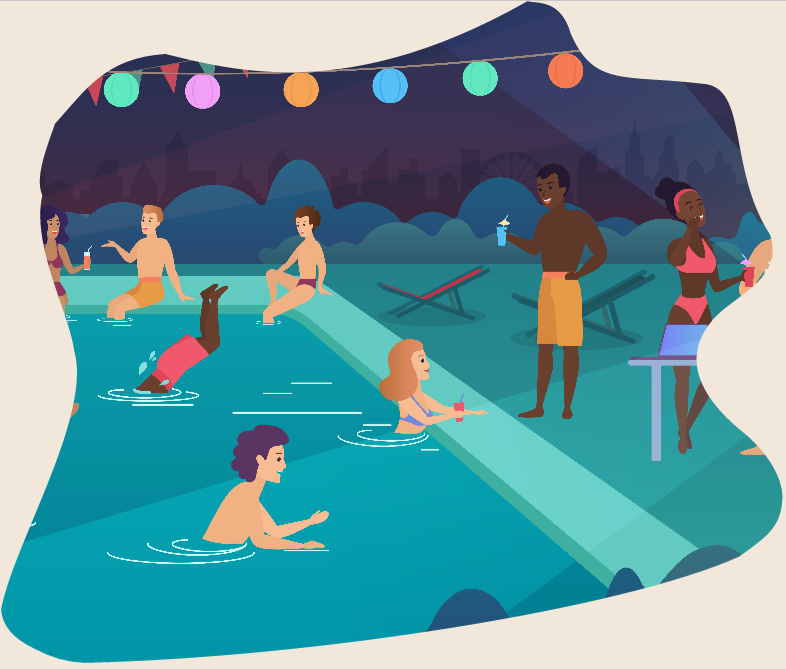
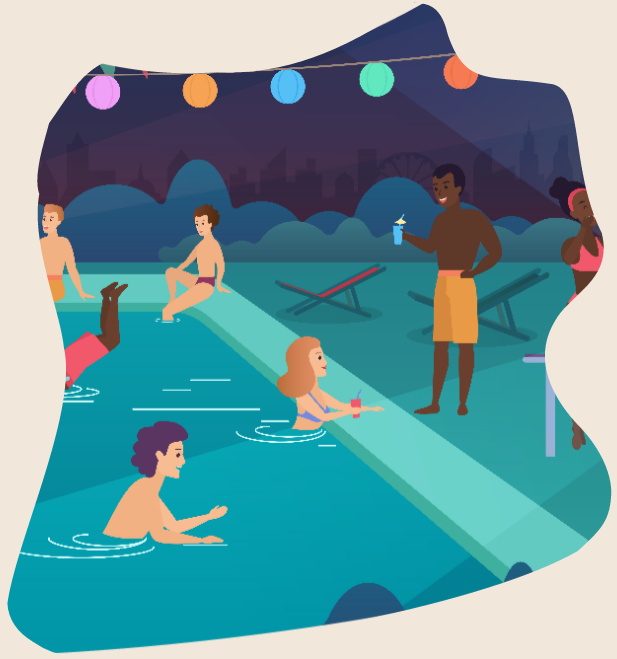
welcome image quality corrections

diff --git a/lib/module/welcome/index.dart b/lib/module/welcome/index.dart
@@ -24,6 +24,8 @@ class WelcomePageState extends State<WelcomePage>
 
   @override
   Widget build(BuildContext context) {
+    NavigatorState navigator = Navigator.of(context);
+
     return SafeArea(
       child: Scaffold(
         body: Screener(
@@ -31,14 +33,17 @@ class WelcomePageState extends State<WelcomePage>
             const SizedBox(height: 30.0),
             SizedBox(
               width: double.maxFinite,
-              height: 340.0,
+              height: 380.0,
               child: TabBarView(controller: tabController, children: [
                 Column(
                   children: [
                     Padding(
                       padding: const EdgeInsets.all(12.0),
-                      child: Image.asset(
-                        'assets/house2.png',
+                      child: SizedBox(
+                        width: 280.0,
+                        child: Image.asset(
+                          'assets/house2.png',
+                        ),
                       ),
                     ),
                     const Text(
@@ -54,7 +59,9 @@ class WelcomePageState extends State<WelcomePage>
                   children: [
                     Padding(
                       padding: const EdgeInsets.all(12.0),
-                      child: Image.asset('assets/barbecue2.png'),
+                      child: SizedBox(
+                          width: 280.0,
+                          child: Image.asset('assets/barbecue2.png')),
                     ),
                     const Text(
                       'Conheça pessoas de qualidade',
@@ -82,7 +89,10 @@ class WelcomePageState extends State<WelcomePage>
                 Column(children: [
                   Padding(
                     padding: const EdgeInsets.all(12.0),
-                    child: Image.asset('assets/pool2.png'),
+                    child: SizedBox(
+                      width: 280,
+                      child: Image.asset('assets/pool2.png'),
+                    ),
                   ),
                   const Text(
                     'Faça seus próprios eventos',
@@ -117,13 +127,19 @@ class WelcomePageState extends State<WelcomePage>
             const SizedBox(height: 45.0),
             Padding(
               padding: const EdgeInsets.all(12.0),
-              child:
-                  MainPinkButton(onPressed: () async {}, text: 'Fazer Login'),
+              child: MainPinkButton(
+                  onPressed: () async {
+                    navigator.pushNamed('/login');
+                  },
+                  text: 'Fazer Login'),
             ),
             Padding(
               padding: const EdgeInsets.all(12.0),
               child: MainPinkButton(
-                  onPressed: () async {}, text: 'Visitar Evento'),
+                  onPressed: () async {
+                    navigator.pushNamed('/principal/');
+                  },
+                  text: 'Visitar Evento'),
             )
           ],
         ),

diff --git a/lib/module/principal/container/profile/index.dart b/lib/module/principal/container/profile/index.dart
@@ -94,7 +94,7 @@ class ProfilePageContainer extends StatelessWidget {
                 icon: const Icon(Icons.logout, size: 15.0),
                 onPressed: () async {
                   await signOut.execute();
-                  Modular.to.navigate('/');
+                  Modular.to.navigate('/login');
                 },
                 label: const Text(
                   'Fazer logout',
@@ -124,7 +124,7 @@ class ProfilePageContainer extends StatelessWidget {
               ElevatedButton.icon(
                 icon: const Icon(Icons.logout, size: 15.0),
                 onPressed: () {
-                  Modular.to.navigate('/');
+                  Modular.to.navigate('/login');
                 },
                 label: const Text(
                   'Fazer login',

diff --git a/lib/app_module.dart b/lib/app_module.dart
@@ -31,8 +31,8 @@ class AppModule extends Module {
 
   @override
   List<ModularRoute> get routes => [
-        ChildRoute('/', child: (context, args) => const LoginPage()),
-        ChildRoute('/welcome', child: (context, args) => const WelcomePage()),
+        ChildRoute('/', child: (context, args) => const WelcomePage()),
+        ChildRoute('/login', child: (context, args) => const LoginPage()),
         ChildRoute('/register', child: (context, args) => const RegisterPage()),
         ChildRoute('/reset', child: (context, args) => const ResetPage()),
         ChildRoute('/reset-email-message',

diff --git a/lib/module/register/container/index.dart b/lib/module/register/container/index.dart
@@ -175,7 +175,7 @@ class RegisterPageContainerState extends State<RegisterPageContainer> {
                   const SizedBox(height: 5),
                   const LinkRedirect(
                     title: 'Já está cadastrado? (login)',
-                    redirectLink: '/',
+                    redirectLink: '/login',
                   ),
                   const SizedBox(height: 20),
                   MainPinkButton(

diff --git a/lib/module/reset/index.dart b/lib/module/reset/index.dart
@@ -78,7 +78,7 @@ class ResetPageState extends State<ResetPage> {
                     padding: EdgeInsets.symmetric(vertical: 10.0),
                     child: LinkRedirect(
                       title: 'Voltar para login',
-                      redirectLink: '/',
+                      redirectLink: '/login',
                     ),
                   ),
                   MainPinkButton(

diff --git a/lib/module/principal/container/index.dart b/lib/module/principal/container/index.dart
@@ -126,8 +126,8 @@ class PrincipalPageContainerState extends State<PrincipalPageContainer> {
 
   Widget buildNavigatePages(_, GlobalState state, __) {
     if (state is LoadingGlobalState) {
-      return Center(
-        child: Container(),
+      return const Center(
+        child: CircularProgressIndicator(),
       );
     }
 

diff --git a/lib/module/verify_email_message/index.dart b/lib/module/verify_email_message/index.dart
@@ -41,7 +41,7 @@ class VerifyEmailMessagePageState extends State<VerifyEmailMessagePage> {
             Align(
               child: LinkRedirect(
                 title: 'Voltar para login',
-                redirectLink: '/',
+                redirectLink: '/login',
               ),
             ),
           ],

diff --git a/lib/module/reset_email_message/index.dart b/lib/module/reset_email_message/index.dart
@@ -36,7 +36,7 @@ class ResetEmailMessagePageState extends State<ResetEmailMessagePage> {
             Align(
               child: LinkRedirect(
                 title: 'Voltar para login',
-                redirectLink: '/',
+                redirectLink: '/login',
               ),
             ),
           ],
